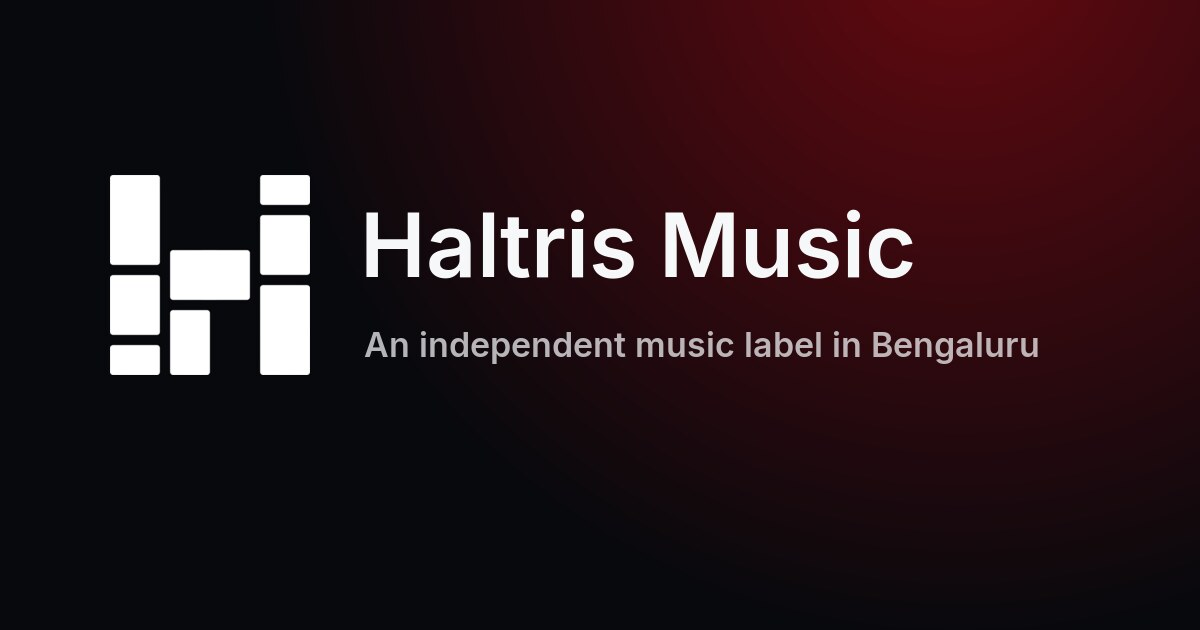
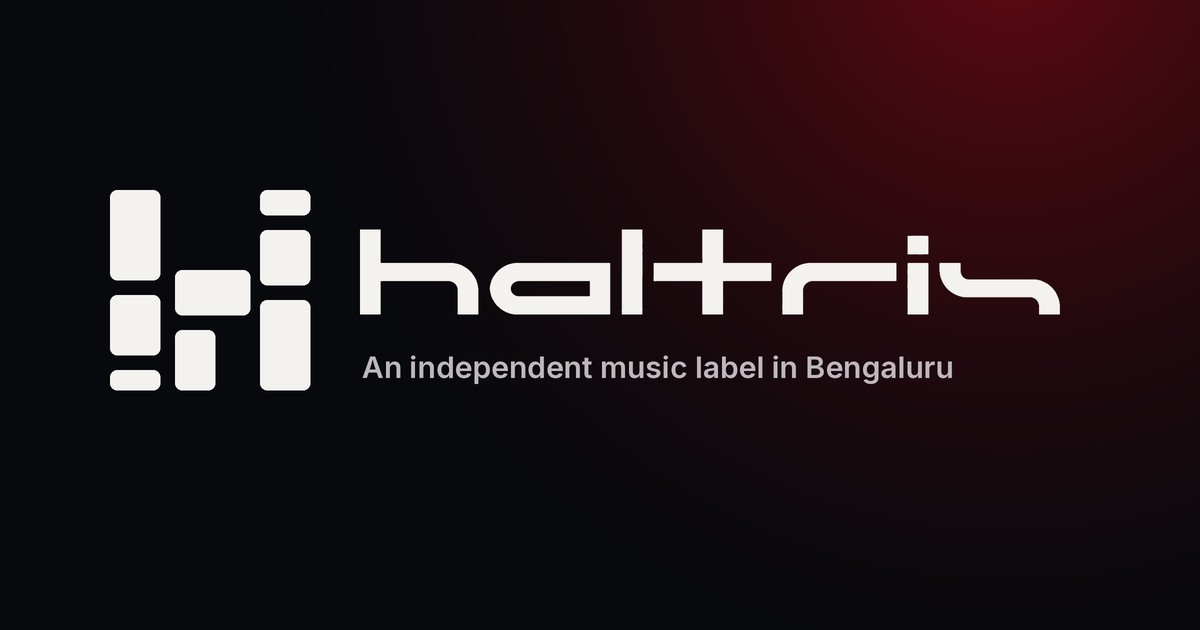
feat(brand): block wordmark in the header, footer, share image and press kit
The text logo is replaced by the haltris block wordmark, traced from the master
artwork to an SVG that takes its color from CSS. In the footer the mark and
wordmark now form one lockup of equal height.

Changed region(s): [[0.0925, 0.3317, 0.8942, 0.6333], [0.2158, 0.2714, 0.2775, 0.3921], [0.0925, 0.2714, 0.1542, 0.3016]]

diff --git a/src/components/Wordmark.tsx b/src/components/Wordmark.tsx
@@ -1,0 +1,56 @@
+import { useId } from 'react';
+
+/**
+ * The haltris wordmark: letters drawn from the same squared blocks as the mark.
+ * Traced from the master artwork, so it stays sharp at every size and takes
+ * its color from CSS (currentColor, or a gradient in the footer).
+ */
+export const wordmarkLetters = [
+  { letter: 'h', d: 'M0.1 0.1C-0.4 0.6 -0.4 142.5 0.1 142.8C0.2 142.9 7.9 143 17.2 143C32.1 143 34 142.9 34.4 142.6C34.7 142.2 34.8 139.4 34.8 114.8C34.8 88 34.8 87.2 35.2 87C35.5 86.8 54.7 86.8 92.9 86.8C148.7 86.8 150.2 86.8 152.1 87.2C156.8 88.5 160.9 91.6 162.6 95.3C164.3 98.9 164.2 98.4 164.2 121.6C164.2 138.5 164.3 142.6 164.6 142.8C165.2 143.2 198.4 143.1 198.7 142.7C199.1 142.2 198.9 99.1 198.6 96.9C197 87.5 194.9 82.6 189 74.5C182.5 65.7 171.1 58.7 160.4 57C159.4 56.8 158.1 56.6 157.4 56.5C156.7 56.3 132.4 56.2 95.8 56.2C49.1 56.2 35.3 56.2 35 56C34.8 55.7 34.8 49.2 34.8 28C34.8 6.8 34.7 0.3 34.5 0.1C34 -0.4 0.4 -0.4 0.1 0.1Z' },
+  { letter: 'a', d: 'M259.2 56.5C258.6 56.7 257.3 56.9 256.2 57.1C249.4 58.4 243.7 60.8 238.1 64.8C237.6 65.2 236.6 65.9 235.9 66.3C234 67.7 229.1 72.8 227 75.7C223.4 80.5 222.1 83.1 220.6 87.5C220.1 89.1 219.6 90.7 219.4 91.1C219.3 91.5 219.1 92.6 219 93.5C218.9 94.4 218.7 95.6 218.5 96.2C217.2 100.7 220.4 113.5 224.1 119C224.6 119.8 225.3 120.9 225.6 121.5C227.6 125.2 232.8 130.8 237.2 134C239.2 135.4 245.2 139 245.6 139C245.7 139 246.2 139.2 246.8 139.4C251 141.3 253.4 141.9 258.9 142.7C261.4 143.1 419.6 143.1 420.3 142.8C420.8 142.5 420.8 141.8 420.8 99.7C420.8 66.7 420.7 56.8 420.4 56.5C420.1 56.2 261.1 56.2 259.2 56.5ZM386 87C386.5 87.2 386.5 87.7 386.5 99.4L386.5 111.5L385.9 111.8C385.4 112.2 379.3 112.2 325.3 112.2C266.4 112.2 265.2 112.2 263.5 111.8C252.4 108.7 250.1 95 259.7 89.2C261 88.4 263.7 87.2 265.1 86.9C266.2 86.7 385.5 86.8 386 87Z' },
+  { letter: 'l', d: 'M440.5 0.1C440.1 0.6 440.1 142.5 440.6 142.8C441.1 143.2 474.1 143.1 474.5 142.7C474.8 142.3 475.1 24.6 474.8 8.9L474.6 -0.1L457.7 -0.2C443.9 -0.2 440.8 -0.2 440.5 0.1Z' },
+  { letter: 't', d: 'M575.9 0.2C575.5 0.6 575.5 2.7 575.5 28.2C575.6 52.2 575.5 55.8 575.2 56C575 56.2 558.8 56.2 534.6 56.2C502.1 56.2 494.2 56.3 494 56.6C493.7 57 493.5 86.2 493.9 86.5C494.1 86.7 506.1 86.8 534.4 86.8C567 86.7 574.7 86.8 575.1 87C575.5 87.3 575.5 88.8 575.5 114.8C575.5 139.5 575.5 142.2 575.9 142.6C576.4 143.1 609.7 143.2 610.2 142.7C610.4 142.5 610.5 136 610.5 115C610.5 84.1 610.3 86.9 612.5 86.8C613.1 86.8 631 86.8 652.3 86.8C687.1 86.8 691 86.7 691.4 86.3C692 85.7 692 57.2 691.3 56.7C690.9 56.3 687.7 56.2 651 56.2C620.3 56.2 611 56.2 610.8 56C610.6 55.7 610.5 49.2 610.5 28C610.5 6.8 610.4 0.3 610.2 0.1C609.7 -0.5 576.4 -0.4 575.9 0.2Z' },
+  { letter: 'r', d: 'M753 56.4C752.9 56.5 752 56.6 751 56.8C735.3 58.7 720.6 69.9 714 85C712.2 88.8 711 93.4 710.5 97.2C710 100.7 710.1 142.5 710.5 142.8C711.1 143.1 744.3 143.1 744.7 142.7C744.9 142.5 745 137.3 745 121C745 103 745.1 99.5 745.4 99C745.6 98.7 745.7 98.2 745.8 98C745.8 97 747.2 94.3 748.6 92.7C750.2 90.7 752.9 88.9 755.8 87.7L757.9 86.9L829.6 86.8C881.8 86.8 901.4 86.7 901.7 86.5C902.1 86.1 902.2 57 901.7 56.5C901.4 56.2 753.2 56.1 753 56.4Z' },
+  { letter: 'i', d: 'M921 56.7C920.6 57 920.5 142.2 920.9 142.8C921.2 143.2 954.9 143.1 955.4 142.6C956 141.9 956 57.2 955.3 56.7C954.6 56 921.5 56 921 56.7ZM923 10.7C922 10.7 921 10.8 921 10.9C920.6 11.2 920.7 41.3 921 41.6C921.4 42 954.9 41.9 955.4 41.5C955.9 41 955.9 11.8 955.4 11.1C955 10.7 954.4 10.6 940 10.6C931.6 10.6 924 10.7 923 10.7Z' },
+  { letter: 's', d: 'M974.8 56.8C974.3 57.2 974.2 57.6 974.2 63.7C974.2 68 974.4 70.5 974.5 70.9C974.7 71.3 974.9 72.6 975 73.9C975.8 83.8 982.8 96.4 991.1 103.1C997.2 108 1005.5 112.1 1011.6 113.2C1012.2 113.2 1012.8 113.4 1013.1 113.6C1013.5 113.8 1029.5 113.9 1071.5 114C1126.3 114.2 1129.5 114.2 1130.9 114.6C1135.3 116 1139.3 119.8 1140.6 124C1140.9 124.8 1141.2 125.8 1141.4 126.4C1141.7 127.2 1141.8 129.2 1141.8 134.9C1141.8 140.4 1141.8 142.5 1142 142.7C1142.5 143.2 1176.1 143.1 1176.5 142.7C1176.8 142.2 1176.7 126.3 1176.3 123.5C1175.9 120.8 1175.6 119.4 1175.4 119.1C1175.3 118.9 1175.1 118.2 1174.9 117.6C1174.5 116.3 1173.9 114.4 1173.5 113.6C1173.4 113.3 1172.9 112.3 1172.5 111.2C1169.2 103.6 1164.4 97.6 1157 92.1C1153.4 89.5 1145.3 85.9 1140.2 84.7L1137.9 84.1L1079.4 84C1024.5 83.9 1020.8 83.8 1019.6 83.4C1015.5 82 1012.3 78.8 1010.7 74.2C1010.2 72.7 1010.1 72.1 1010 64.7C1009.9 58 1009.8 56.7 1009.5 56.5C1009.3 56.3 1002.4 56.2 992.2 56.2C975.6 56.2 975.2 56.2 974.8 56.8Z' },
+] as const;
+
+export const WORDMARK_VIEWBOX = '0 0 1177 144';
+
+interface WordmarkProps {
+  className?: string;
+  /** Wraps each letter so it can be animated on its own (footer reveal). */
+  letterClassName?: (index: number) => string;
+  /** Fills the letters with a top to bottom fade instead of a flat color. */
+  gradient?: boolean;
+  /** Decorative by default. Pass a label when the wordmark stands alone. */
+  label?: string;
+}
+
+export function Wordmark({ className = '', letterClassName, gradient = false, label }: WordmarkProps) {
+  const gradientId = `wordmark-fade-${useId().replace(/:/g, '')}`;
+
+  return (
+    <svg
+      className={`wordmark ${className}`.trim()}
+      viewBox={WORDMARK_VIEWBOX}
+      role={label ? 'img' : undefined}
+      aria-label={label}
+      aria-hidden={label ? undefined : true}
+      focusable="false"
+      fill={gradient ? `url(#${gradientId})` : 'currentColor'}
+    >
+      {gradient && (
+        <defs>
+          <linearGradient id={gradientId} gradientUnits="userSpaceOnUse" x1="0" y1="0" x2="0" y2="144">
+            <stop className="wordmark__stop wordmark__stop--top" offset="0.2" />
+            <stop className="wordmark__stop wordmark__stop--bottom" offset="1" />
+          </linearGradient>
+        </defs>
+      )}
+      {wordmarkLetters.map(({ letter, d }, index) => (
+        <path key={letter} className={letterClassName?.(index)} d={d} />
+      ))}
+    </svg>
+  );
+}

diff --git a/src/styles/layout.css b/src/styles/layout.css
@@ -305,7 +305,8 @@
   40% { translate: 0 -2.5px; fill: var(--accent-text); }
 }
 
-.brand__name { font-size: 0.9375rem; font-weight: 700; letter-spacing: 0.24em; }
+/* The wordmark sits on the mark's baseline and matches its visual weight. */
+.brand__name { display: block; width: auto; height: 0.95rem; color: var(--ink); }
 .brand__rule { width: 1px; height: 1.1rem; background: var(--line-strong); }
 
 .brand__descriptor {
@@ -1884,33 +1885,24 @@
 
 /* The closing wordmark, set as big as the page allows. */
 .footer__wordmark {
+  --wordmark-gap: clamp(0.75rem, 2vw, 2rem);
   display: flex;
   align-items: flex-end;
-  gap: clamp(0.75rem, 2vw, 2rem);
+  gap: var(--wordmark-gap);
   width: min(100%, var(--wrap));
   margin-inline: auto;
-  padding: 0 var(--gutter);
+  padding: 0 var(--gutter) clamp(1.25rem, 3vw, 2.75rem);
   overflow: hidden;
 }
 
-.footer__mark { flex: none; width: clamp(3.5rem, 12vw, 11rem); margin-bottom: 1.6vw; color: var(--accent); }
+/* The square mark is exactly as tall as the wordmark (1177 x 144), so the two read as one lockup. */
+.footer__mark { flex: none; width: calc((100% - var(--wordmark-gap)) / 9.17); color: var(--accent); }
 
-.footer__letters {
-  display: flex;
-  font-size: clamp(4.5rem, 16.5vw, 15.5rem);
-  font-weight: 700;
-  letter-spacing: -0.065em;
-  line-height: 0.78;
-}
+.footer__letters { flex: 1 1 auto; min-width: 0; height: auto; overflow: hidden; }
+.wordmark__stop--top { stop-color: var(--ink); }
+.wordmark__stop--bottom { stop-color: rgba(243, 240, 234, 0.32); }
 
-.footer__letter {
-  display: inline-block;
-  background: linear-gradient(180deg, var(--ink) 20%, rgba(243, 240, 234, 0.1) 100%);
-  -webkit-background-clip: text;
-  background-clip: text;
-  color: transparent;
-  transition: translate 1.1s var(--ease);
-}
+.footer__letter { transition: translate 1.1s var(--ease); }
 
 .reveal-ready .footer__wordmark:not(.is-revealed) .footer__letter { translate: 0 100%; }
 .footer__letter--1 { transition-delay: 60ms; }

diff --git a/src/content/site.ts b/src/content/site.ts
@@ -41,7 +41,6 @@ export function isInquiryType(value: unknown): value is InquiryType {
 
 export const site = {
   name: 'Haltris Music',
-  wordmark: 'HALTRIS',
   descriptor: 'Music label',
   location: 'Bengaluru, India',
   address: '234, 3rd Floor, Old Madras Rd, Hobli, Krishnarajapuram, Bengaluru, Karnataka 560016',
@@ -121,6 +120,8 @@ export const press = {
   files: [
     { label: 'Haltris mark, light (SVG)', href: '/press/haltris-mark-light.svg', note: 'For dark backgrounds' },
     { label: 'Haltris mark, dark (SVG)', href: '/press/haltris-mark-dark.svg', note: 'For light backgrounds' },
+    { label: 'Haltris wordmark, light (SVG)', href: '/press/haltris-wordmark-light.svg', note: 'For dark backgrounds' },
+    { label: 'Haltris wordmark, dark (SVG)', href: '/press/haltris-wordmark-dark.svg', note: 'For light backgrounds' },
     { label: 'Haltris logo (PNG)', href: '/press/haltris-logo.png', note: '1200 × 1200' },
     { label: "Lil' Sukku press photo (JPG)", href: '/press/lil-sukku-press-photo.jpg', note: '1254 × 1254' },
   ],

diff --git a/src/components/SiteFooter.tsx b/src/components/SiteFooter.tsx
@@ -1,6 +1,7 @@
 import { Link } from 'react-router-dom';
 import { site } from '../content/site';
 import { BlockMark } from './BlockMark';
+import { Wordmark } from './Wordmark';
 import { SocialLinks } from './SocialLinks';
 
 export function SiteFooter() {
@@ -52,11 +53,7 @@ export function SiteFooter() {
 
       <div className="footer__wordmark" aria-hidden="true" data-reveal>
         <BlockMark className="footer__mark" />
-        <span className="footer__letters">
-          {site.wordmark.split('').map((letter, index) => (
-            <span className={`footer__letter footer__letter--${index}`} key={`${letter}-${index}`}>{letter}</span>
-          ))}
-        </span>
+        <Wordmark className="footer__letters" gradient letterClassName={(index) => `footer__letter footer__letter--${index}`} />
       </div>
 
       <div className="footer__base">

diff --git a/src/components/SiteHeader.tsx b/src/components/SiteHeader.tsx
@@ -2,6 +2,7 @@ import { useEffect, useRef, useState } from 'react';
 import { Link, NavLink, useLocation } from 'react-router-dom';
 import { site } from '../content/site';
 import { BlockMark } from './BlockMark';
+import { Wordmark } from './Wordmark';
 
 export function SiteHeader() {
   const [menuOpen, setMenuOpen] = useState(false);
@@ -31,7 +32,7 @@ export function SiteHeader() {
       <div className="masthead__inner">
         <NavLink className="brand" to="/" end aria-label="Haltris Music, home" onClick={() => setMenuOpen(false)}>
           <BlockMark className="brand__logo" />
-          <span className="brand__name">{site.wordmark}</span>
+          <Wordmark className="brand__name" />
           <span className="brand__rule" aria-hidden="true" />
           <span className="brand__descriptor">{site.descriptor}</span>
         </NavLink>

diff --git a/src/app/App.test.tsx b/src/app/App.test.tsx
@@ -30,7 +30,7 @@ it('renders the Haltris shell', () => {
     </MemoryRouter>,
   );
 
-  expect(within(screen.getByRole('banner')).getByText('HALTRIS')).toBeInTheDocument();
+  expect(within(screen.getByRole('banner')).getByRole('link', { name: 'Haltris Music, home' }).querySelector('.brand__name')).not.toBeNull();
   expect(within(screen.getByRole('navigation', { name: /primary/i })).getByRole('link', { name: /artists/i })).toBeInTheDocument();
 });
 
